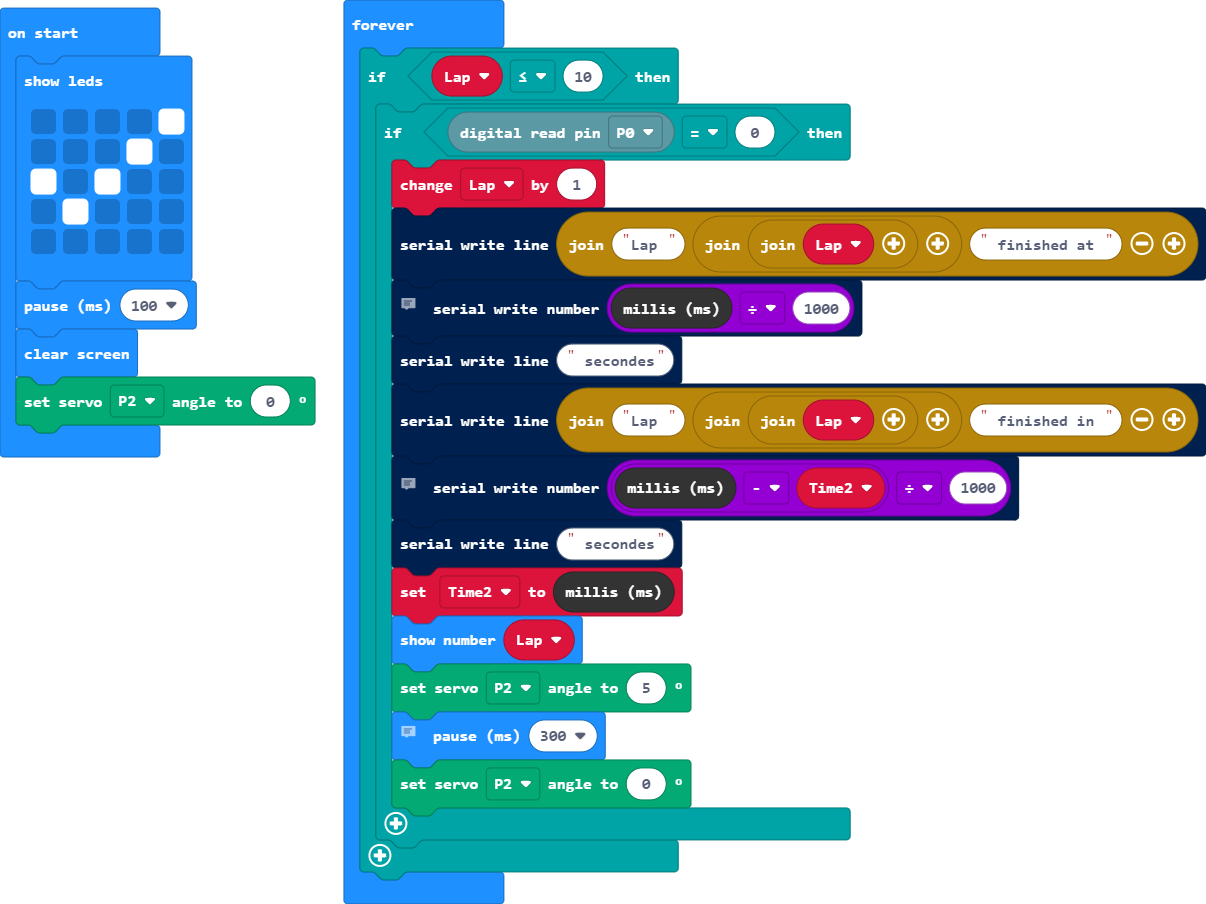
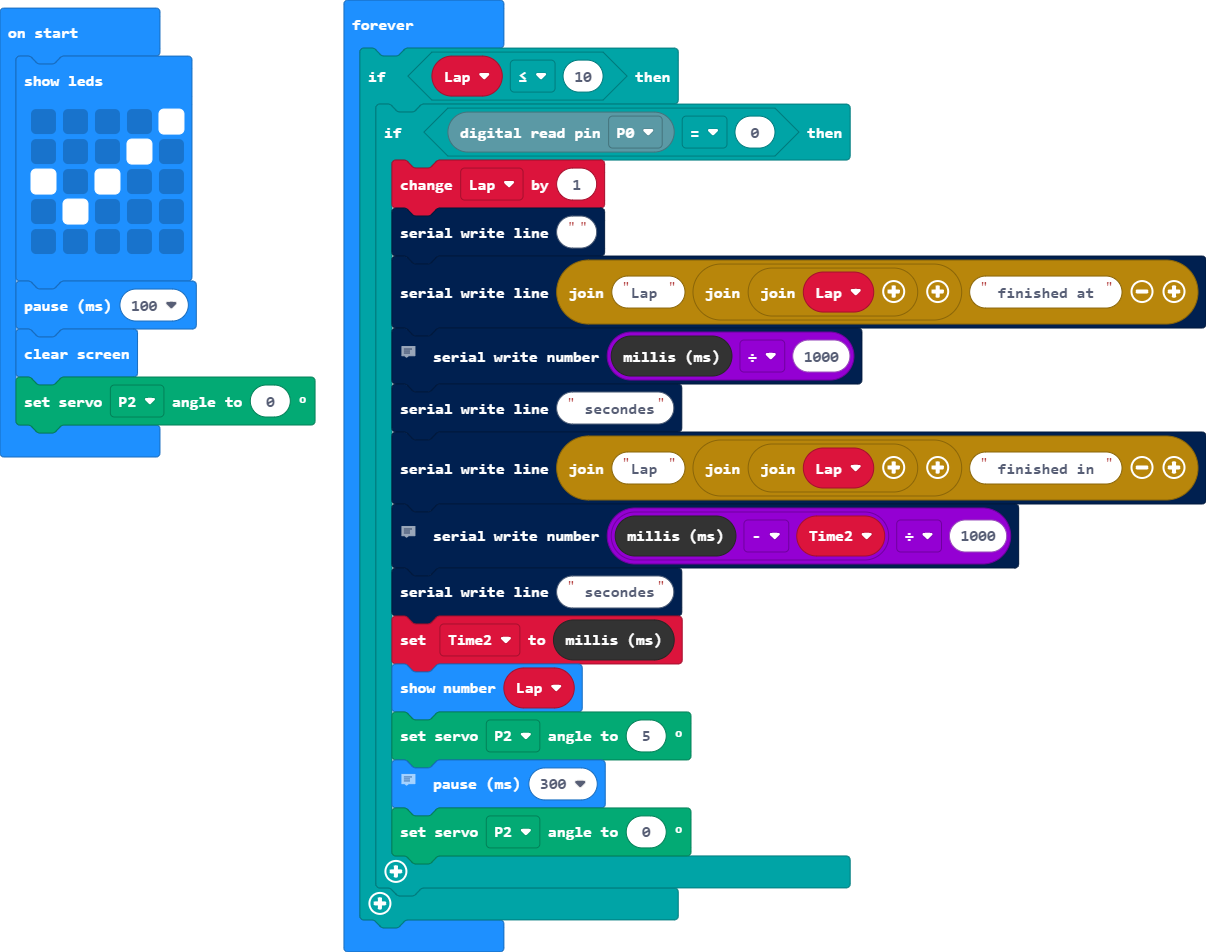
Update main.blocks, main.ts

Changed region(s): [[0.3068, 0.0, 1.0, 0.9912], [0.0, 0.031, 0.2761, 0.5265], [0.5522, 0.9292, 0.7056, 0.9602]]

diff --git a/main.ts b/main.ts
@@ -14,6 +14,7 @@ basic.forever(function () {
     if (Lap <= 10) {
         if (BitMaker.read_Din_value(GrovePort.P0) == 0) {
             Lap += 1
+            serial.writeLine("")
             serial.writeLine("Lap " + ("" + Lap) + " finished at ")
             // Montrer le numero du tour avec le temps totale
             serial.writeNumber(control.millis() / 1000)
